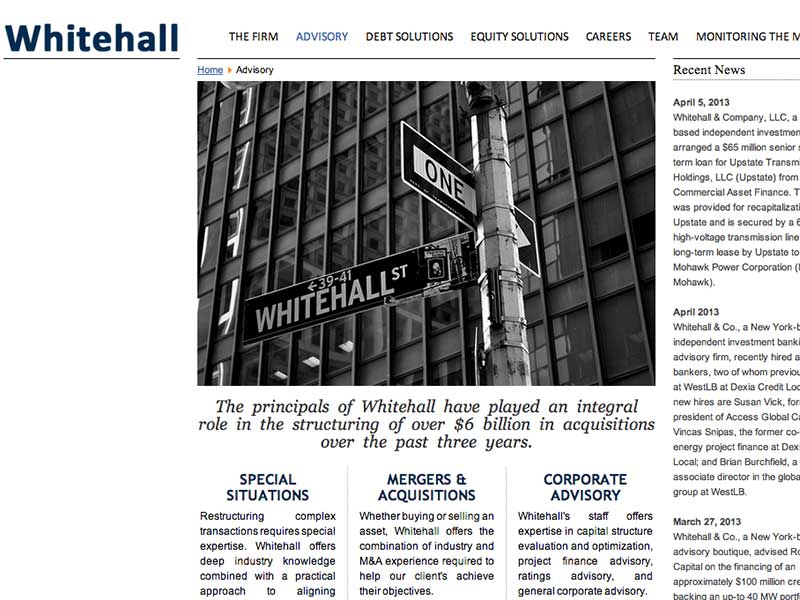
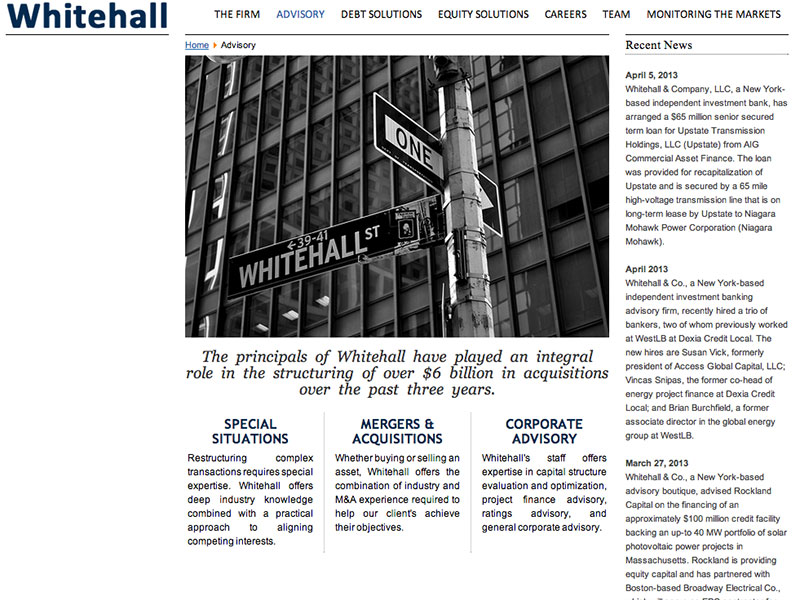
about ot add bought responsive lightbox

diff --git a/index.html b/index.html
@@ -38,47 +38,27 @@ ALL RIGHTS RESERVED GIFFORD NOWLAND (c) MMXIII. Contact: http://giffordnowland.c
 <div id="contentwindow"><!--BODY ================================================================================================================= -->
 
 
-    <div class="box one uncloned"><!--BOX 1 (WHITEHALL)-->
+    <div class="box one uncloned onloadfadein" data-src="img/boxes/whitehall.jpg"><!--BOX 1 (WHITEHALL)-->
     <div id="lock">
         <div id="leftcol">
         <div class="boximage"></div>
         <div class="sprite fade">
-        <ul><div class="non-semantic-protector"><h1 class="ribbon"><strong class="ribbon-content">tools used</strong></h1></div>
-		<li class="mysql col2" title="mysql"></li><li class="joomla col1" title="joomla"></li>
-        <li class="google col1" title="google developers"></li>
-        <li class="html col2" title="html5"></li>
-        <li class="jquery col1" title="jquery"></li><li class="msvs col1" title="microsoft visual studio"></li><li class="css col2" title="css3"></li>
-        <li class="php col1" title="php"></li><li class="javascript col1" title="javascript"></li>
-        <li class="dreamweaver col2" title="dreamweaver"></li>
-        <li class="illustrator col1" title="illustrator"></li>
-        <li class="photoshop col1" title="photoshop"></li>
-        </ul>
+        	<ul><div class="non-semantic-protector"><h1 class="ribbon"><strong class="ribbon-content">tools used</strong></h1></div>
+				<li class="mysql col2" title="mysql"></li><li class="joomla col1" title="joomla"></li><li class="google col1" title="google developers"></li><li class="html col2" title="html5"></li><li class="jquery col1" title="jquery"></li><li class="msvs col1" title="microsoft visual studio"></li><li class="css col2" title="css3"></li><li class="php col1" title="php"></li><li class="javascript col1" title="javascript"></li><li class="dreamweaver col2" title="dreamweaver"></li><li class="illustrator col1" title="illustrator"></li><li class="photoshop col1" title="photoshop"></li>
+            </ul>
         </div>
-        <div class="sitelink fade">
-        	<div class="cell link cfull">
-				visit the current site:<br />
-				<a href="http://www.whitehallandcompany.com">www.whitehallandcompany.com</a>
-            </div>
-        </div>
+        <div class="sitelink fade"><div class="cell link cfull">visit the current site:<br /><a href="http://www.whitehallandcompany.com">			
+        www.whitehallandcompany.com</a></div></div>
         </div>
         <div id="rightcol">
         <div class="gallery fade"><!-- IMAGE GALLERY -->
-        
-        <ul id="pg">
- 			<li>
-  			<img src="/hifi/site/edit/blog/source.jpg" alt="" />
-  			<p>Caption Here</p>
- 			</li>
-            <li>
-            </li>
-		</ul>
 
 
         </div>
         <div class="content fade">
 		    <h1>Whitehall &amp; Company</h1>
 		    <h4>A boutique investment bank located in the heart of New York's Times Square</h4>
-		    <div class="timeline">Project Timeline: November 2010 &mdash; February 2011</div><!-- grey background for "project timeline", stylized date -->
+		    <div class="timeline">Project Timeline: November 2010 &mdash; February 2011</div>
 
             <div class="cell head mission cleft">
             <h2>the mission</h2><!-- bold -->
@@ -97,12 +77,13 @@ ALL RIGHTS RESERVED GIFFORD NOWLAND (c) MMXIII. Contact: http://giffordnowland.c
             
             <div class="cell head execution cright">
 		    <h2>the execution</h2>
-		    <p>I chose to use Joomla CMS in the implementation of this project because of its extensible feature set and flexible structure. I created a custom PHP template from scratch using Joomla's proprietary framework, successfully preserving the layout and design of the original website while integrating the powerful Joomla content management features. Once the layout was complete I developed custom modules to automatically integrate publication of the firm's weekly newsletter, Monitoring the Markets, as well as add additional dynamic elements to support greater interactivity, better search engine optomization (SEO), faster page-loading, and a cleaner layout.</p>
+		    <p>I chose to use Joomla CMS in the implementation of this project because of its extensible feature set and flexible structure. I created a custom PHP template from scratch using Joomla's proprietary framework, successfully preserving the layout and design of the original website while integrating the powerful Joomla content management features. Once the layout was complete I developed custom modules to automatically integrate publication of the firm's weekly newsletter, Monitoring the Markets, as well as add additional dynamic elements to support greater interactivity, better search engine optimization (SEO), faster page-loading, and a cleaner layout.</p>
            </div>
            <div class="cell divider cfull break2" style="margin-top:24%;">&nbsp;</div>
            <div class="cell head result cfull">
             <h2 style="text-align:left;">the result</h2>
-		    <p>The entire Whitehall team was highly impressed by the ease of use provided by the content management system for pubishing information and the improved site structure contributed by the custom template. The weekly market update newsletter that I also developed using Microsoft Visual Basic and Bloomberg APIs is sent to over 1,000 investors and generates a considerable amount of traffic to the site.</p>
+		    <p>The entire Whitehall team was highly impressed by the ease of use provided by the content management system for publishing information and the improved site structure contributed by the custom template. The weekly market update newsletter that I also developed using Microsoft Visual Basic and Bloomberg APIs is sent to over 1,000 investors and generates a considerable amount of traffic to the site.</p>
+		    <p>Unfortunately the historical Analytics data was irretrievably lost when my administrative account was deleted.</p>
            </div>
     	</div>
         </div>
@@ -110,20 +91,20 @@ ALL RIGHTS RESERVED GIFFORD NOWLAND (c) MMXIII. Contact: http://giffordnowland.c
 	</div><!--END BOX 1-->
 
     
-    <div class="box two uncloned">
+    <div class="box two uncloned onloadfadein" data-src="img/boxes/whitehall.jpg">
     <div class="content">
     <h1>Whitehall Website</h1>
-    <h4>Whitehall &amp; Company is a boutique investment bank located in the heart of New York's Times Square</h4><!-- small, italic -->
-    <div class="timeline"><h3>Project Timeline:</h3><p>November 2010 &mdash; February 2011</p></div><!-- grey background for "project timeline", stylized date -->
-    <h2>The Mission</h2><!-- bold -->
+    <h4>Whitehall &amp; Company is a boutique investment bank located in the heart of New York's Times Square</h4>
+    <div class="timeline"><h3>Project Timeline:</h3><p>November 2010 &mdash; February 2011</p></div>
+    <h2>The Mission</h2>
     <p>Whitehall's existing website was a static HTML site that Jon, one of the Managing Directors, had created in his spare time. Because Jon designed it himself he was understandably attached to the appearance of the site but was finding it prohibitively time consuming to maintain its development. Jon wanted to create a system that would allow employees with little to no knowledge of web coding languages to easily publish site content and assist with maintaining the site on a day-to-day basis.</p>
     <h2>The Strategy</h2>
     <p>For this project I proposed that Whitehall convert its existing static, hard-coded website to a database-driven object-oriented content management system (CMS) that would deliver content dynamically from a central database. The convenience and scalability provided by content management systems would fulfill their requirement for an easy-to-use yet powerful tool for effortlessly maintaining an active online presence.</p>
     <h2>The Dilemma</h2>
     <p>Because of my previous experience developing and administering complex CMS-based community websites (UDress Magazine and DelRide SnowCorp) I was confident that I would be able to exceed Whitehall's expectations. The only real challenge I anticipated was the capability to preserve the full integrity of the original site's layout and design. Leading up to this project my chief CMS implementation technique was to install a prepackaged template to create the layout and then adjust the CSS code in order to create the desired ambiance, but because Whitehall wanted to create a customized layout this would not be an option.</p>
     <h2>The Execution</h2>
-    <p>I chose to use Joomla CMS in the implementation of this project because of its extensible feature set and flexible structure. I created a custom PHP template from scratch using Joomla's proprietary framework, successfully preserving the layout and design of the original website while integrating the powerful Joomla content management features. Once the layout was complete I developed custom modules to automatically integrate publication of the firm's weekly newsletter, Monitoring the Markets, as well as add additional dynamic elements to support greater interactivity, better search engine optomization (SEO), faster page-loading, and a cleaner layout.</p>
-    <p>The entire Whitehall team was highly impressed by the ease of use provided by the content management system for pubishing information and the improved site structure contributed by the custom template I created.</p>
+    <p>I chose to use Joomla CMS in the implementation of this project because of its extensible feature set and flexible structure. I created a custom PHP template from scratch using Joomla's proprietary framework, successfully preserving the layout and design of the original website while integrating the powerful Joomla content management features. Once the layout was complete I developed custom modules to automatically integrate publication of the firm's weekly newsletter, Monitoring the Markets, as well as add additional dynamic elements to support greater interactivity, better search engine optimization (SEO), faster page-loading, and a cleaner layout.</p>
+    <p>The entire Whitehall team was highly impressed by the ease of use provided by the content management system for publishing information and the improved site structure contributed by the custom template I created.</p>
     </div>
     </div>
     
@@ -147,29 +128,33 @@ ALL RIGHTS RESERVED GIFFORD NOWLAND (c) MMXIII. Contact: http://giffordnowland.c
 	//FITTTEXT:
 	$('#name').fitText(1.8, { minFontSize: '23px', maxFontSize: '80px' });
 
-	//PLAX:
+	//ON PAGE LOAD RUN....
 	$(document).ready(function () {
+		
+		//FADE IN IMAGES:
+		$('.onloadfadein').each(function() {
+    		var src = $(this).data("src");
+    			if (src) {
+        			var img = new Image();
+        			img.style.display = "none";
+        			img.onload = function() {
+            			$(this).fadeIn(600);
+        				};
+        			$(this).append(img);            
+        			img.src = src;
+					$('.onloadfadein img:last-child').addClass('removeimg');
+					}
+		});
+		//END FADE IN IMAGES
+		
+		//PLAX:
         $('#plax img').plaxify()
         $.plax.enable()
+		//END PLAX
 		
-	//GALLERY	
-		$('#pg').jphotogrid({
-		 baseCSS: {
-		  width: '175px',
-		  height: '117px',
-		  padding: '0px'
-		 },
-		 selectedCSS: {
-		  top: '50px',
-		  left: '100px',
-		  width: '500px',
-		  height: '360px',
-		  padding: '10px'
- 		 }
-		 });
-
     });
-	
+	//END ONPAGELOAD
+
 </script>
 
 </body>

diff --git a/style.css b/style.css
@@ -307,18 +307,6 @@ img#gradient-semicircle {
 }
 .uncloned {	cursor:pointer;}
 
-.box.one.uncloned {
-	background-image: url(img/boxes/whitehall.jpg);
-	background-repeat: no-repeat;
-	background-size: 100%;
-}
-
-.box.two.uncloned {
-	background-image:url(img/boxes/loso.jpg);
-	background-repeat:no-repeat;
-	background-size:100%;
-}
-
 .box.active .boximage {
 	float: left;
 	background-repeat: no-repeat;
@@ -335,9 +323,8 @@ img#gradient-semicircle {
 
 .gallery {
 float: left;
-background:#696;
 width: 96%;
-height: 20%;
+height: 50%;
 margin: 2% 2%;
 display:inline-block;
 }
@@ -483,12 +470,6 @@ float: right;
 
 /* GALLERY --------------------------------------------------------------------------- */
 
-#pg { position: relative; height: 50px; background: #000; } /*GET BOX HEIGHT FOR GALLERY HEIGHT!!!*/
-#pg li { position: relative; list-style: none; width: 175px; height: 117px; overflow: hidden; float: left; z-index: 2; opacity: .3; }
-#pg li.active { opacity: 1; }
-#pg li.selected { opacity: 1; z-index: 99; -moz-box-shadow: 0px 0px 10px #fff; -webkit-box-shadow: 0px 0px 10px #fff; }
-#pg li img { display: block; width: 100%; }
-#pg li p { color: white; margin: 10px 0; font-size: 12px; }
 
 /* KEEP THIS AT BOTTOM!!!! */
 .uncloned #lock {

diff --git a/script.js b/script.js
@@ -30,7 +30,7 @@ $('#contentwindow').delegate('.box','click', function(){
 
     if ($('.box.active').length <= 0){ 
         
-        
+        $('.onloadfadein img:last-child').css({'visibility': 'hidden'});
 		$(this).removeClass('uncloned');
 		$(this).addClass('cloned');
 		
@@ -114,8 +114,9 @@ $('#contentwindow').delegate('.box.active .boximage','click', function(){
             $('.box.active').remove();
             cloned.removeClass('cloned');
 			cloned.addClass('uncloned');
-			cloned.css({visibility: 'visible'});
-			parent.css({overflow:'auto'});
+			cloned.css({'visibility': 'visible'});
+			parent.css({'overflow':'auto'});
+			$('.onloadfadein img:last-child').css({'visibility': 'visible'});
         });
 	
 });
